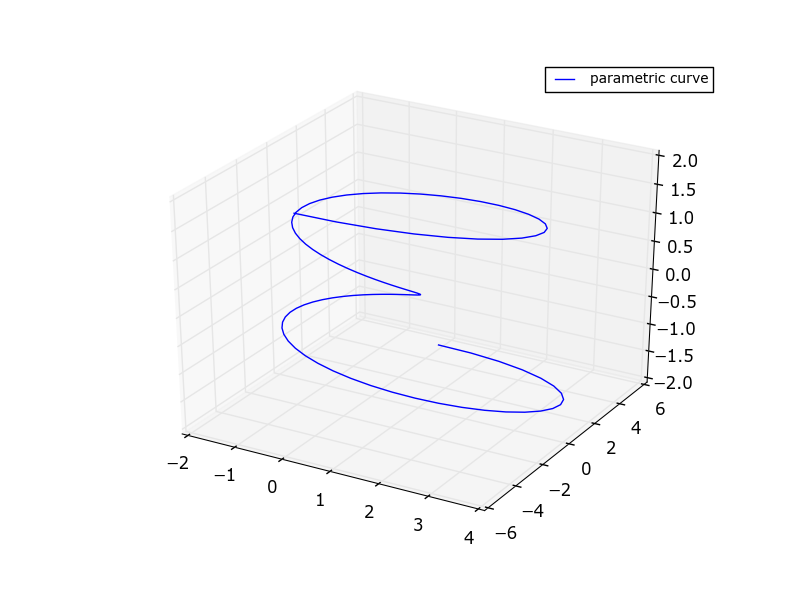
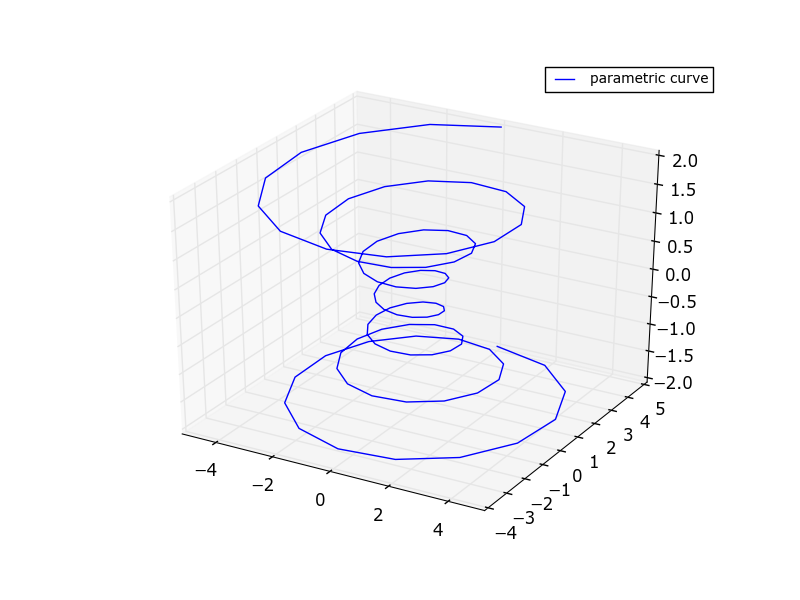
Added plotting beginings

diff --git a/flight_planner/logic/geopy.py b/flight_planner/logic/geopy.py
@@ -1,0 +1,12 @@
+from geopie import geocoders,point,distance
+
+googleV3 = geocoders.GoogleV3()
+place1, (lat1,lng1) = googleV3.geocode("GL5 2LX")
+place2, (lat2,lng2) = googleV3.geocode("GL5 2LX")
+
+print("PLace: {} - ({},{})".format(place1,lat1,lng1))
+print("PLace: {} - ({},{})".format(place2,lat2,lng2))
+
+lat2,lng2,altitude = point.point([50.935531, -1.396047])
+
+kmDistance = distance.distance(place1,place2)

diff --git a/flight_diagnostics/logic/plotting.py b/flight_diagnostics/logic/plotting.py
@@ -18,7 +18,7 @@ def testPlot(filename):
 
 	fig = pyplot.figure()
 	ax = fig.gca(projection='3d')
-	theta = numpy.linspace(-4 * numpy.pi, 1 * numpy.pi, 100)
+	theta = numpy.linspace(-4 * numpy.pi, 10 * numpy.pi, 100)
 	z = numpy.linspace(-2, 2, 100)
 	r = z**2 + 1
 	x = r * numpy.sin(theta)
